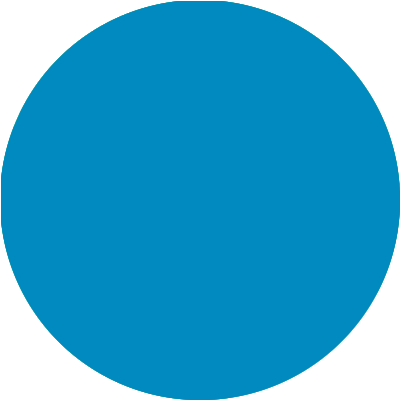
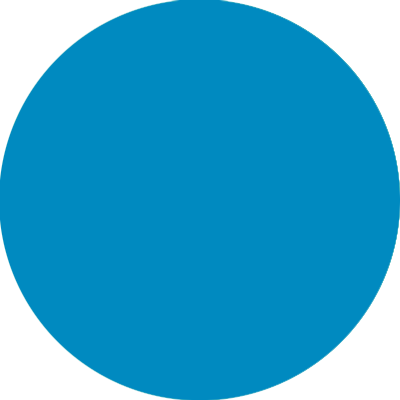
create mbta commuter rail

diff --git a/src/scripts/modules/world-cup.js b/src/scripts/modules/world-cup.js
@@ -16,7 +16,7 @@ export const WORLD_CUP_HOSTS = [
     countryName: "United States",
     cities: [
       { name: "Atlanta", systemIds: ["marta"] },
-      { name: "Boston", systemIds: ["mbta"] },
+      { name: "Boston", systemIds: ["mbta-commuter-rail"] },
       { name: "Dallas", systemIds: ["dart"] },
       { name: "Houston", systemIds: ["houston-metrorail"] },
       { name: "Kansas City", systemIds: ["ridekc"] },
